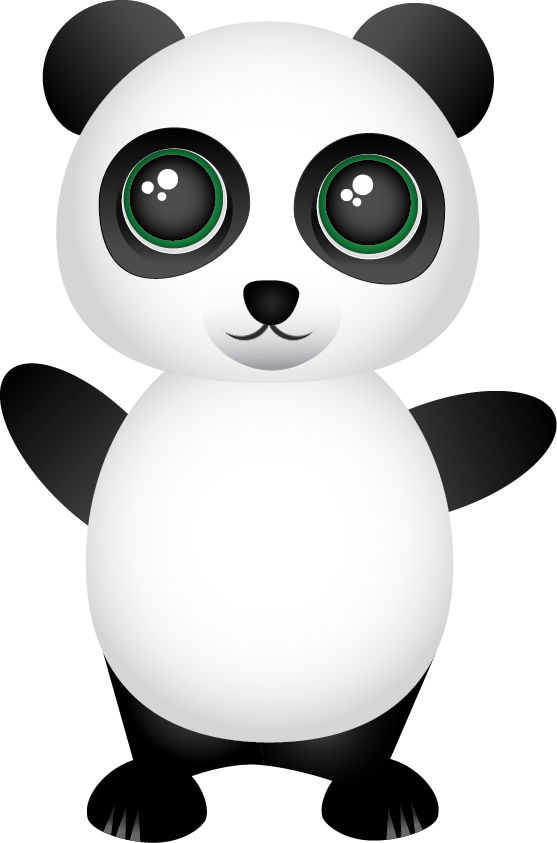
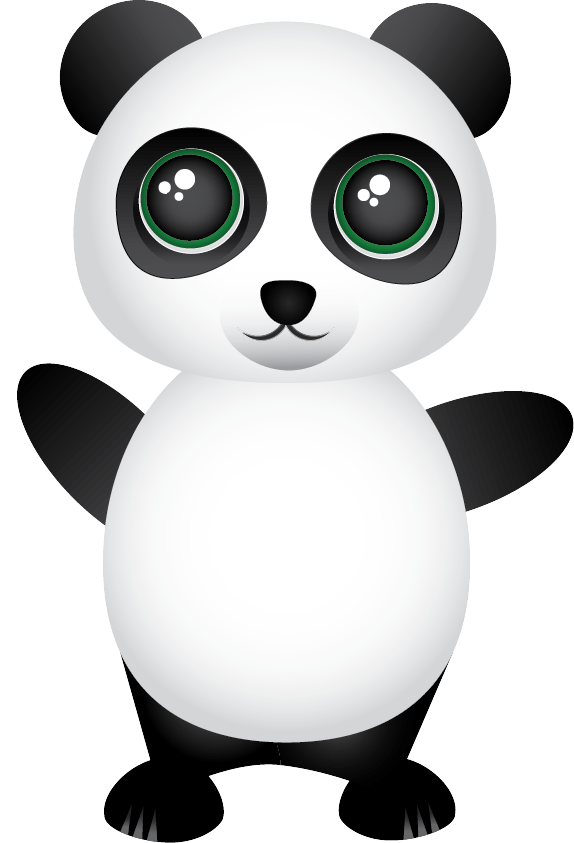
Agent animations

diff --git a/src/view/Agents/PandaAgentView.js b/src/view/Agents/PandaAgentView.js
@@ -12,27 +12,98 @@ MW.PandaAgentView = MW.GlobalObject.extend(
 		if (config.x === undefined) config.x = 0;
 		if (config.y === undefined) config.y = 0;
 		var group,
-			panda;
+			panda,
+			animation;
 		
 		group = new Kinetic.Group({
 			x: config.x,
-			y: config.y
+			y: config.y,
+			scale: {x: 0.25, y: 0.25}
 		});
 		
 		panda = new Kinetic.Image({
-			width: 143,
-			height: 211,
 			image: MW.Images.ELEVATORGAME_AGENT_PANDA
 		});
 		group.add(panda)
 		
 		
+		/**
+		 * Walk with left foot.
+		 * @private
+		 */
+		function walkLeft () {
+			MW.SetImage(panda, MW.Images.ELEVATORGAME_AGENT_PANDA_WALK_LEFT);
+			animation = setTimeout(walkRight, 150);
+		}
+		
+		/**
+		 * Walk with right foot.
+		 * @private
+		 */
+		function walkRight () {
+			MW.SetImage(panda, MW.Images.ELEVATORGAME_AGENT_PANDA_WALK_RIGHT);
+			animation = setTimeout(walkLeft, 150);
+		}
+		
+		/**
+		 * Wave.
+		 * @private
+		 */
+		function waveUp () {
+			MW.SetImage(panda, MW.Images.ELEVATORGAME_AGENT_PANDA_WAVE);
+			animation = setTimeout(waveDown, 150);
+		}
+		
+		/**
+		 * Don't wave.
+		 * @private
+		 */
+		function waveDown () {
+			MW.SetImage(panda, MW.Images.ELEVATORGAME_AGENT_PANDA);
+			animation = setTimeout(waveUp, 150);
+		}
+		
+		
+		/**
+		 * @public
+		 * @return {Kinetic.Group}
+		 */
 		this.getGraphics = function () {
 			return group;
 		};
 		
+		/**
+		 * @public
+		 * @param {Hash} config - config for a Kinetic transition.
+		 */
 		this.transitionTo = function (config) {
 			group.transitionTo(config);
 		};
+		
+		/**
+		 * @public
+		 * @param {Boolean} walk - true if the bird should walk.
+		 */
+		this.walk = function (walk) {
+			clearTimeout(animation);
+			if (walk) {
+				walkLeft();
+			} else {
+				MW.SetImage(panda, MW.Images.ELEVATORGAME_AGENT_PANDA);
+			}
+		}
+		
+		/**
+		 * @public
+		 * @param {Boolean} wave - true if the bird should wave.
+		 */
+		this.wave = function (wave) {
+			clearTimeout(animation);
+			if (wave) {
+				waveUp();
+			} else {
+				MW.SetImage(panda, MW.Images.ELEVATORGAME_AGENT_PANDA);
+			}
+		}
 	}
 });

diff --git a/src/res/Images.js b/src/res/Images.js
@@ -156,9 +156,9 @@ MW.ImageSources = {
 /** @const */ ELEVATORGAME_NEST_MOTHER_FLAP_10:	"minigames/elevatorgame/nest/MotherTurkos10_2.png",
 
 /** @const */ ELEVATORGAME_AGENT_PANDA:				"minigames/elevatorgame/agent/pandaStandard.png",
-/** @const */ ELEVATORGAME_AGENT_PANDA_WALKING_1:	"minigames/elevatorgame/agent/pandaWalking1.png",
-/** @const */ ELEVATORGAME_AGENT_PANDA_WALKING_2:	"minigames/elevatorgame/agent/pandaWalking2.png",
-/** @const */ ELEVATORGAME_AGENT_PANDA_WAVING:		"minigames/elevatorgame/agent/pandaWaving.png",
+/** @const */ ELEVATORGAME_AGENT_PANDA_WALK_LEFT:	"minigames/elevatorgame/agent/pandaWalking1.png",
+/** @const */ ELEVATORGAME_AGENT_PANDA_WALK_RIGHT:	"minigames/elevatorgame/agent/pandaWalking2.png",
+/** @const */ ELEVATORGAME_AGENT_PANDA_WAVE:		"minigames/elevatorgame/agent/pandaWaving.png",
 
 /** @const */ AGENT_MOUSE_SPRITE:      "agents/mouse/body-sprite.png",
 /** @const */ AGENT_MOUSE_FACIALS_SPRITE:      "agents/mouse/facials-sprite.png",

diff --git a/src/view/Minigames/Elevator/BirdTreeView/BirdTreeView.js b/src/view/Minigames/Elevator/BirdTreeView/BirdTreeView.js
@@ -366,6 +366,7 @@ MW.BirdTreeView = MW.ElevatorView.extend(
 				y: coordinates.agentStartY
 			});
 			layer.add(agent.getGraphics());
+			agent.walk(true);
 			agent.getGraphics().setZIndex(elevator.getZIndex() - 1);
 			agent.transitionTo({
 				x: coordinates.agentStopX,
@@ -373,6 +374,10 @@ MW.BirdTreeView = MW.ElevatorView.extend(
 				duration: second * 1,
 				easing: 'ease-out',
 				callback: function () {
+					agent.wave(true);
+					setTimeout(function () {
+						agent.wave(false);
+					}, second * 1 * 1000);
 					view.tell('ROUND_DONE');
 				}
 			});
@@ -420,8 +425,10 @@ MW.BirdTreeView = MW.ElevatorView.extend(
 			for (i; i < tree.getBranches().length - 1; i++) {
 				tree.getBranches()[i].getNest().celebrate(true);
 			}
+			agent.wave(true);
 			layer.transitionTo({
 				x: layer.getX(),
+				opacity: 0,
 				duration: second * 5,
 				callback: function () {
 					view.tell('QUIT');
